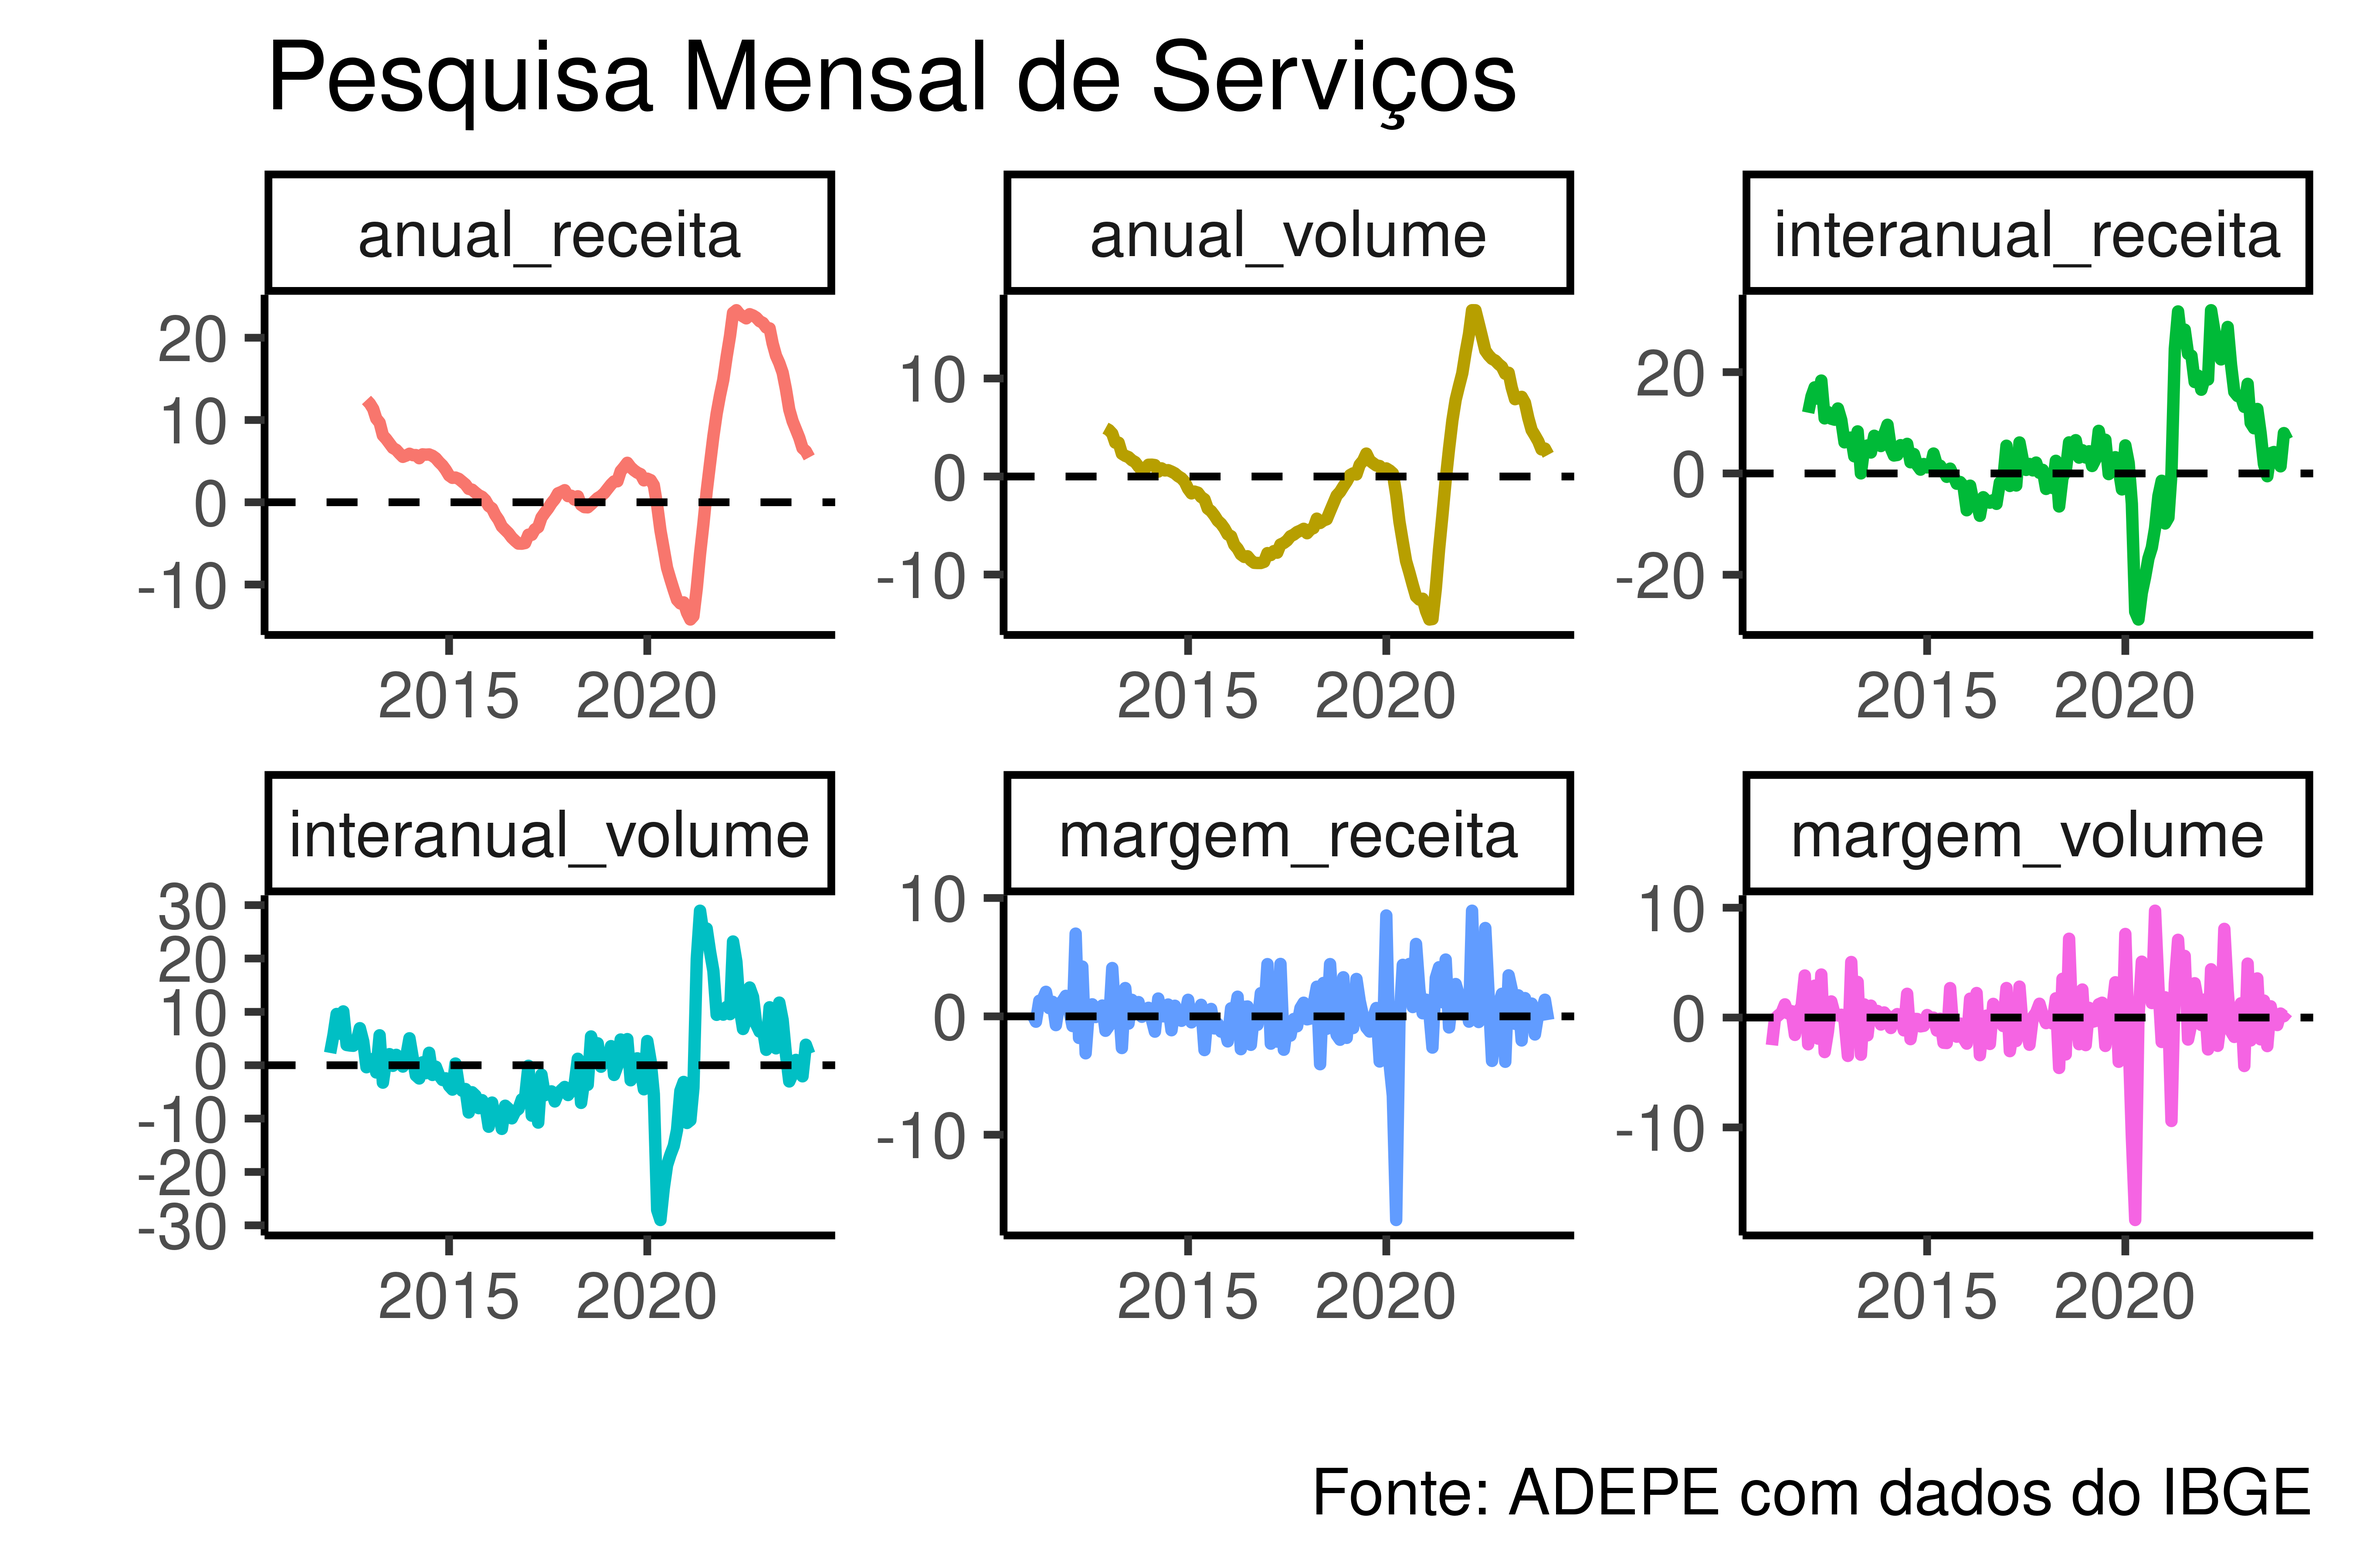
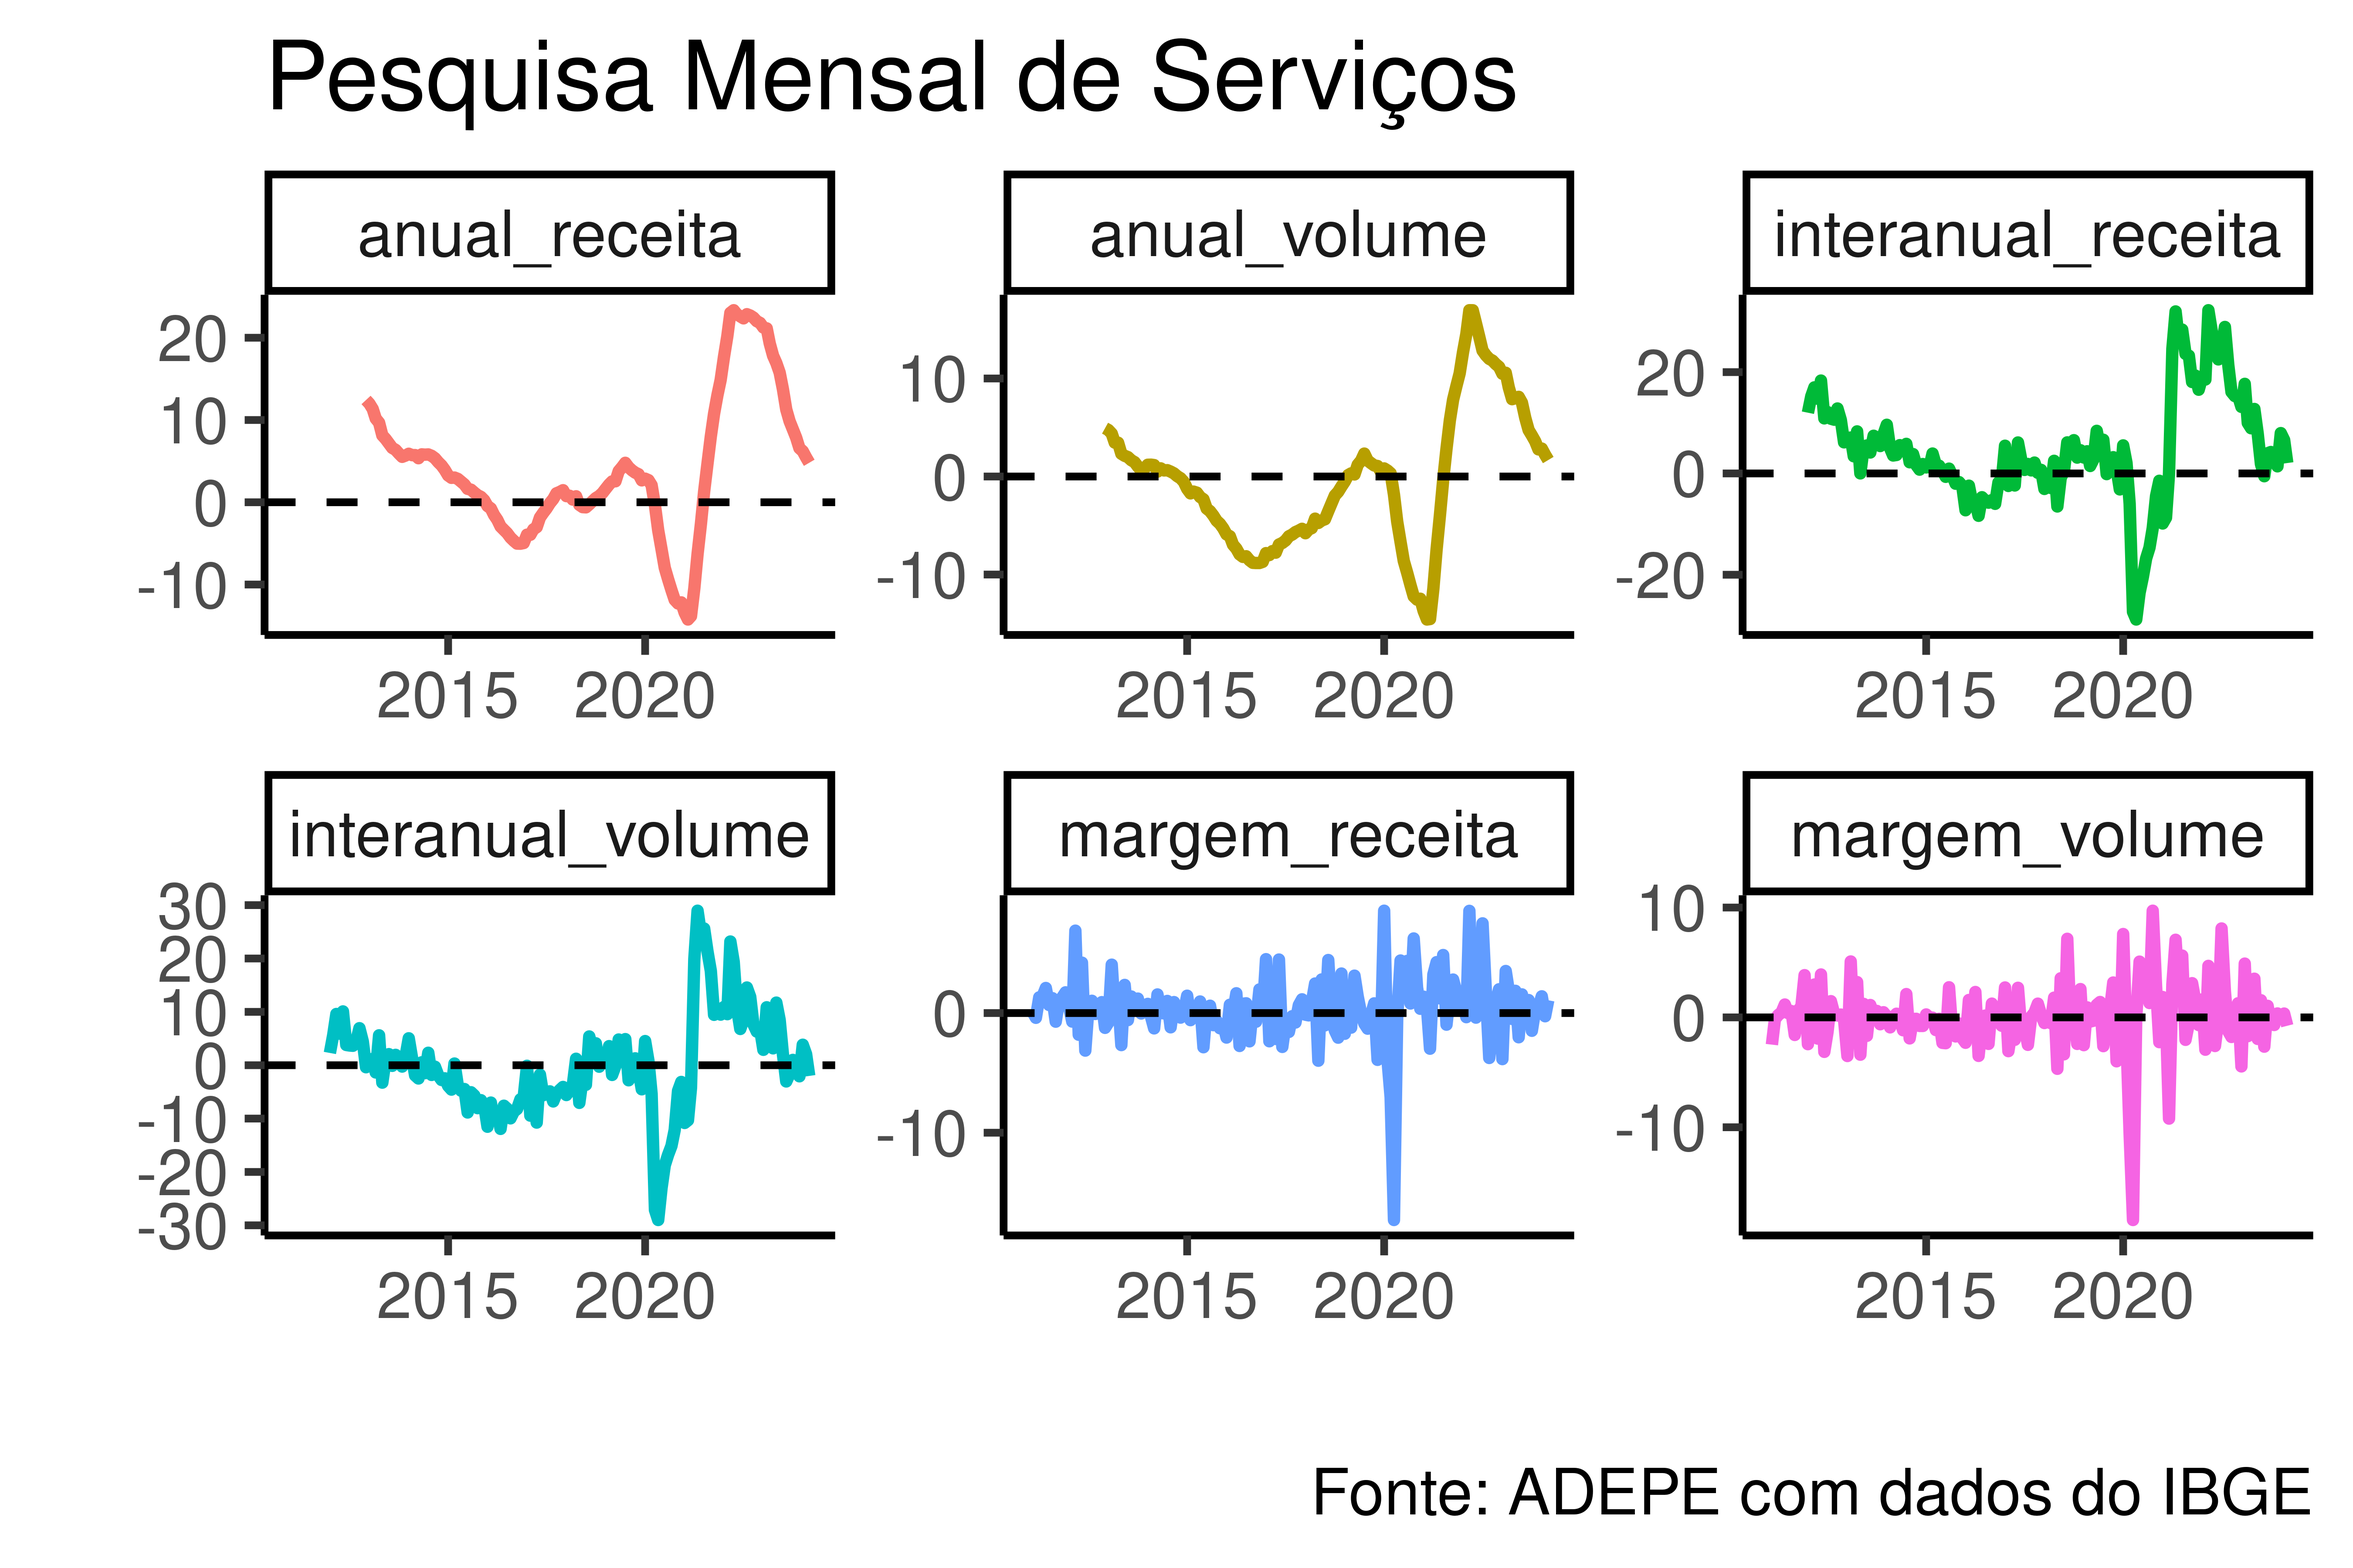
Atualização de relatório automatizada

diff --git a/relatório_nivel_atividade/pesquisas.html b/relatório_nivel_atividade/pesquisas.html
@@ -275,40 +275,40 @@ Nota
 </thead>
 <tbody>
 <tr class="odd">
-<td style="text-align: left;">2023-09-01</td>
-<td style="text-align: right;">1.03</td>
-<td style="text-align: right;">3.32</td>
-<td style="text-align: right;">8.74</td>
-</tr>
-<tr class="even">
 <td style="text-align: left;">2023-10-01</td>
-<td style="text-align: right;">-0.04</td>
+<td style="text-align: right;">-0.06</td>
 <td style="text-align: right;">4.10</td>
 <td style="text-align: right;">7.81</td>
 </tr>
-<tr class="odd">
+<tr class="even">
 <td style="text-align: left;">2023-11-01</td>
-<td style="text-align: right;">0.99</td>
+<td style="text-align: right;">1.04</td>
 <td style="text-align: right;">5.77</td>
 <td style="text-align: right;">7.28</td>
 </tr>
-<tr class="even">
+<tr class="odd">
 <td style="text-align: left;">2023-12-01</td>
-<td style="text-align: right;">0.11</td>
+<td style="text-align: right;">0.07</td>
 <td style="text-align: right;">2.96</td>
 <td style="text-align: right;">6.48</td>
 </tr>
-<tr class="odd">
+<tr class="even">
 <td style="text-align: left;">2024-01-01</td>
-<td style="text-align: right;">2.37</td>
-<td style="text-align: right;">8.28</td>
+<td style="text-align: right;">2.33</td>
+<td style="text-align: right;">8.25</td>
 <td style="text-align: right;">6.23</td>
 </tr>
-<tr class="even">
+<tr class="odd">
 <td style="text-align: left;">2024-02-01</td>
-<td style="text-align: right;">-1.71</td>
-<td style="text-align: right;">6.85</td>
+<td style="text-align: right;">-1.81</td>
+<td style="text-align: right;">6.78</td>
 <td style="text-align: right;">5.94</td>
+</tr>
+<tr class="even">
+<td style="text-align: left;">2024-03-01</td>
+<td style="text-align: right;">1.82</td>
+<td style="text-align: right;">1.68</td>
+<td style="text-align: right;">5.09</td>
 </tr>
 </tbody>
 </table>
@@ -330,40 +330,40 @@ Nota
 </thead>
 <tbody>
 <tr class="odd">
-<td style="text-align: left;">2023-09-01</td>
-<td style="text-align: right;">-0.14</td>
-<td style="text-align: right;">-1.07</td>
-<td style="text-align: right;">4.45</td>
-</tr>
-<tr class="even">
 <td style="text-align: left;">2023-10-01</td>
-<td style="text-align: right;">-0.34</td>
+<td style="text-align: right;">-0.33</td>
 <td style="text-align: right;">-0.19</td>
 <td style="text-align: right;">3.63</td>
 </tr>
-<tr class="odd">
+<tr class="even">
 <td style="text-align: left;">2023-11-01</td>
-<td style="text-align: right;">0.53</td>
+<td style="text-align: right;">0.54</td>
 <td style="text-align: right;">0.51</td>
-<td style="text-align: right;">3.12</td>
-</tr>
-<tr class="even">
-<td style="text-align: left;">2023-12-01</td>
-<td style="text-align: right;">0.53</td>
-<td style="text-align: right;">-1.84</td>
-<td style="text-align: right;">2.40</td>
+<td style="text-align: right;">3.13</td>
 </tr>
 <tr class="odd">
-<td style="text-align: left;">2024-01-01</td>
-<td style="text-align: right;">0.47</td>
-<td style="text-align: right;">4.03</td>
-<td style="text-align: right;">2.33</td>
+<td style="text-align: left;">2023-12-01</td>
+<td style="text-align: right;">0.52</td>
+<td style="text-align: right;">-1.84</td>
+<td style="text-align: right;">2.41</td>
 </tr>
 <tr class="even">
+<td style="text-align: left;">2024-01-01</td>
+<td style="text-align: right;">0.46</td>
+<td style="text-align: right;">3.99</td>
+<td style="text-align: right;">2.32</td>
+</tr>
+<tr class="odd">
 <td style="text-align: left;">2024-02-01</td>
-<td style="text-align: right;">-0.91</td>
-<td style="text-align: right;">2.46</td>
-<td style="text-align: right;">2.16</td>
+<td style="text-align: right;">-0.90</td>
+<td style="text-align: right;">2.40</td>
+<td style="text-align: right;">2.15</td>
+</tr>
+<tr class="even">
+<td style="text-align: left;">2024-03-01</td>
+<td style="text-align: right;">0.40</td>
+<td style="text-align: right;">-2.29</td>
+<td style="text-align: right;">1.42</td>
 </tr>
 </tbody>
 </table>
